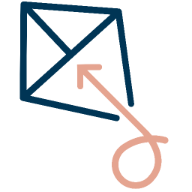
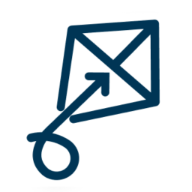
favico for all

diff --git a/frontend/projects/landing/src/index.html b/frontend/projects/landing/src/index.html
@@ -1,14 +1,37 @@
 <!doctype html>
-<html lang="en">
+<html lang="he">
 <head>
   <meta charset="utf-8">
   <title>מפת הטף</title>
   <base href="/">
-  <meta name="viewport" content="width=device-width, initial-scale=1">
+  <meta name="viewport" content="width=device-width, initial-scale=1, maximum-scale=1, shrink-to-fit=no, user-scalable=no">
+  <link rel="icon" type="image/x-icon" href="favicon.ico">
+
+  <meta name="title" content="מפת הטף">
+  <meta name="description" content="כל המענים לגילאי לידה עד 3 ברשות שלך">
+  
+  <link rel="icon" type="image/x-icon" href="/favicon.ico">
   <link rel="apple-touch-icon" sizes="180x180" href="/apple-touch-icon.png">
   <link rel="icon" type="image/png" sizes="32x32" href="/favicon-32x32.png">
   <link rel="icon" type="image/png" sizes="16x16" href="/favicon-16x16.png">
   <link rel="manifest" href="/site.webmanifest">
+
+  <!-- Twitter -->
+  <meta property="twitter:card" content="summary_large_image">
+  <meta property="twitter:url" content="https://app.tafmap.org.il/">
+  <meta property="twitter:title" content="מפת הטף">
+  <meta property="twitter:description" content="כל המענים לגילאי לידה עד 3 ברשות שלך">
+  <meta property="twitter:image" content="https://app.tafmap.org.il/og_image.png">
+
+  <!-- Open Graph / Facebook -->
+  <meta property="fb:app_id" content="966242223397117">
+  <meta property="og:type" content="website">
+  <meta property="og:url" content="https://app.tafmap.org.il/">
+  <meta property="og:title" content="מפת הטף">
+  <meta property="og:description" content="כל המענים לגילאי לידה עד 3 ברשות שלך">
+  <meta property="og:image" itemprop="image" content="https://app.tafmap.org.il/og_image.png">
+  <meta property="og:image:secure_url" itemprop="image" content="https://app.tafmap.org.il/og_image.png">
+
 </head>
 <body>
   <app-root></app-root>

diff --git a/frontend/projects/admin/src/index.html b/frontend/projects/admin/src/index.html
@@ -1,13 +1,37 @@
 <!doctype html>
-<html lang="en">
+<html lang="he">
 <head>
   <meta charset="utf-8">
   <title>מפת הטף - ממשק ניהול</title>
   <base href="/">
   <meta name="viewport" content="width=device-width, initial-scale=1">
   <link rel="icon" type="image/x-icon" href="favicon.ico">
+
+  <meta name="title" content="מפת הטף - ממשק ניהול">
+  <meta name="description" content="כל המענים לגילאי לידה עד 3 ברשות שלך">
+  
+  <link rel="icon" type="image/x-icon" href="/favicon.ico">
+  <link rel="apple-touch-icon" sizes="180x180" href="/apple-touch-icon.png">
+  <link rel="icon" type="image/png" sizes="32x32" href="/favicon-32x32.png">
+  <link rel="icon" type="image/png" sizes="16x16" href="/favicon-16x16.png">
+  <link rel="manifest" href="/site.webmanifest">
+
+  <!-- Twitter -->
+  <meta property="twitter:card" content="summary_large_image">
+  <meta property="twitter:url" content="https://admin.tafmap.org.il/">
+  <meta property="twitter:title" content="מפת הטף - ממשק ניהול">
+  <meta property="twitter:description" content="כל המענים לגילאי לידה עד 3 ברשות שלך">
+  
+  <!-- Open Graph / Facebook -->
+  <meta property="fb:app_id" content="966242223397117">
+  <meta property="og:type" content="website">
+  <meta property="og:url" content="https://admin.tafmap.org.il/">
+  <meta property="og:title" content="מפת הטף - ממשק ניהול">
+  <meta property="og:description" content="כל המענים לגילאי לידה עד 3 ברשות שלך">
+
 </head>
 <body>
   <app-root></app-root>
 </body>
 </html>
+
